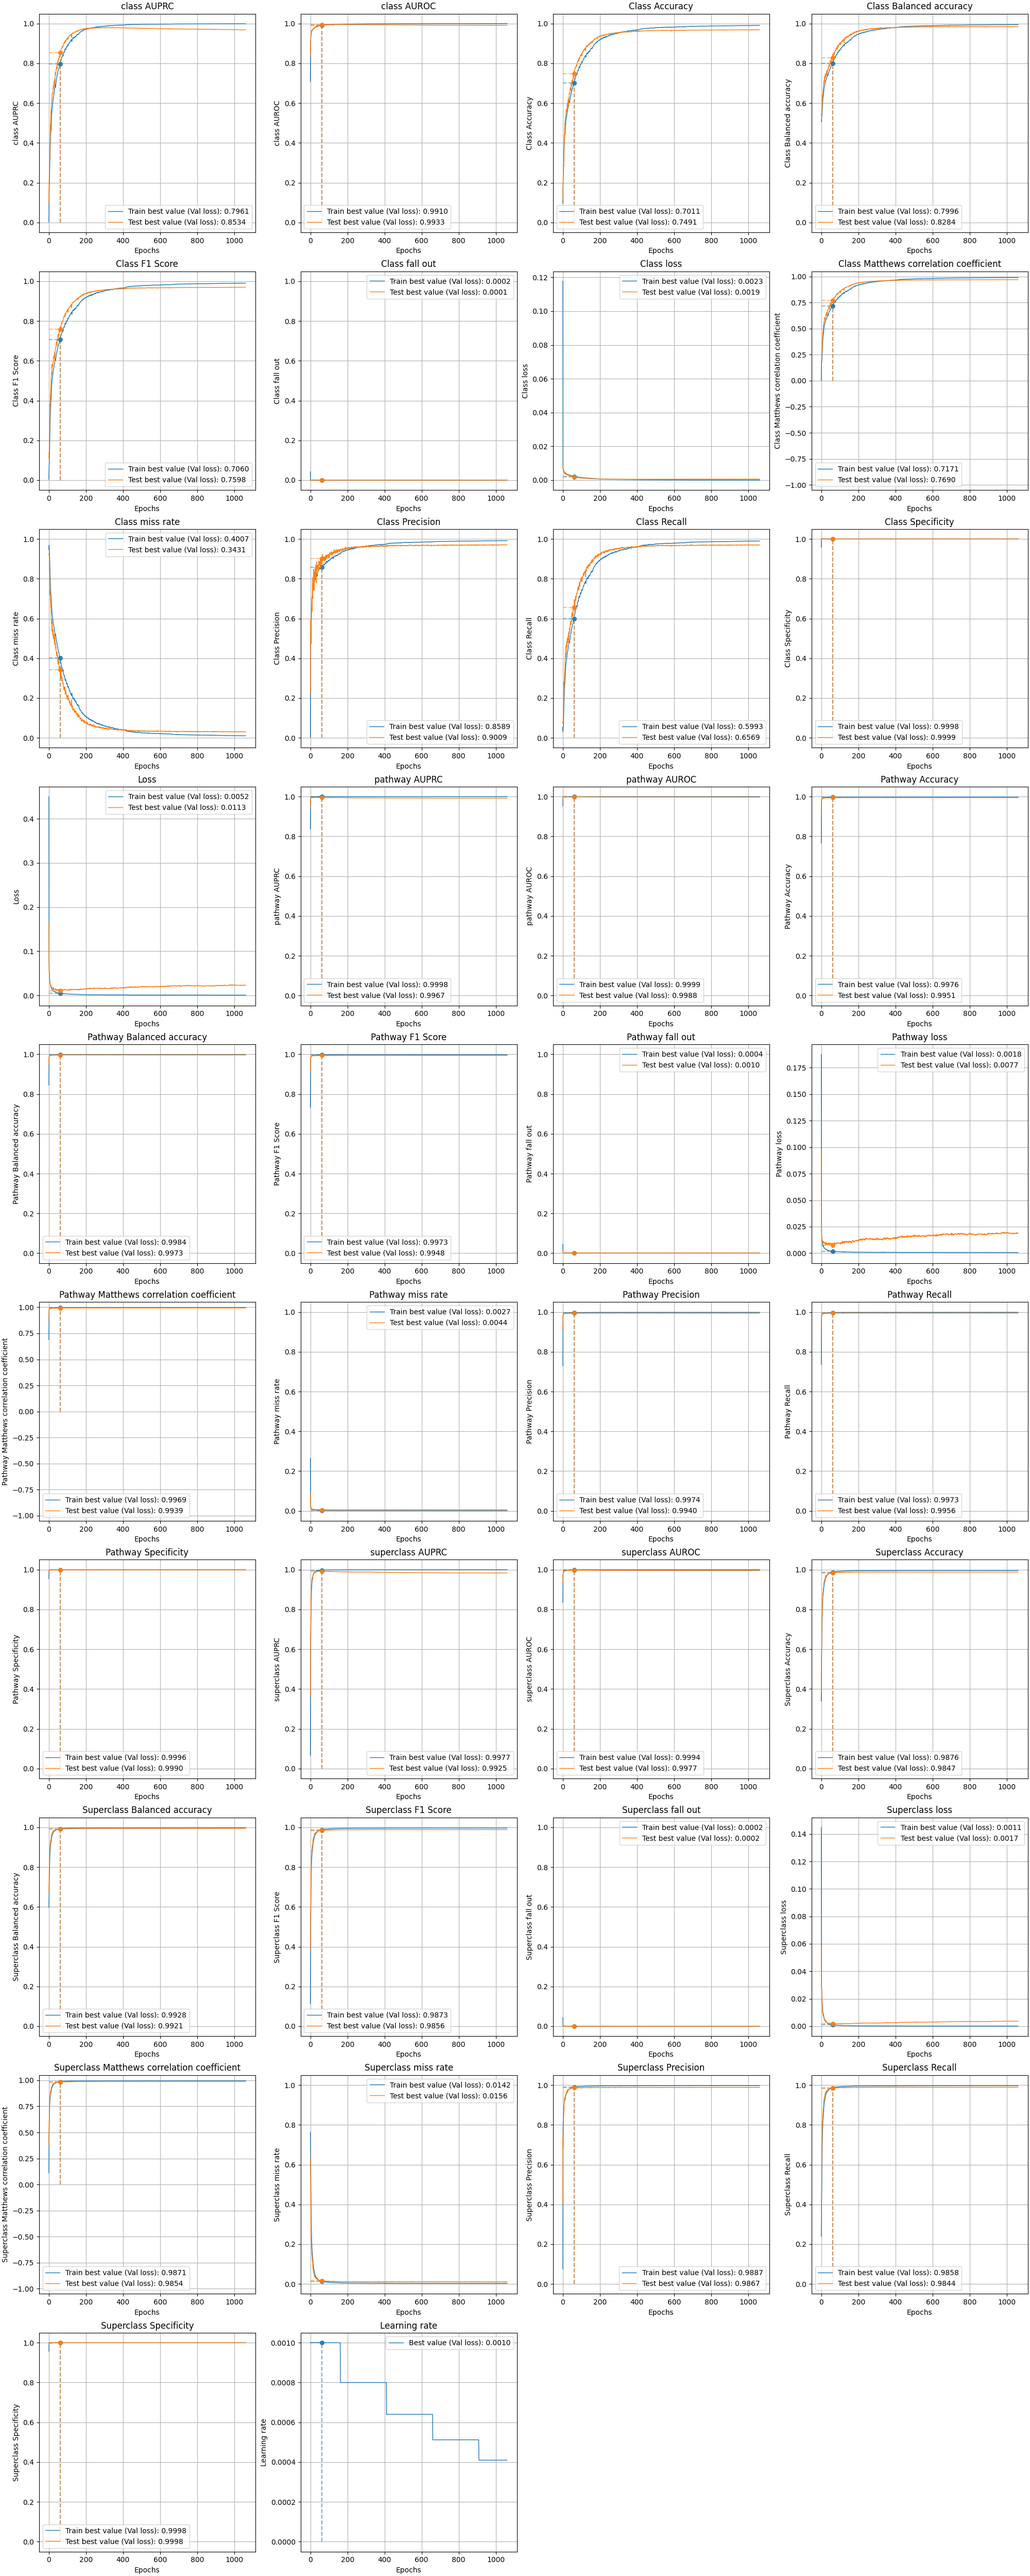
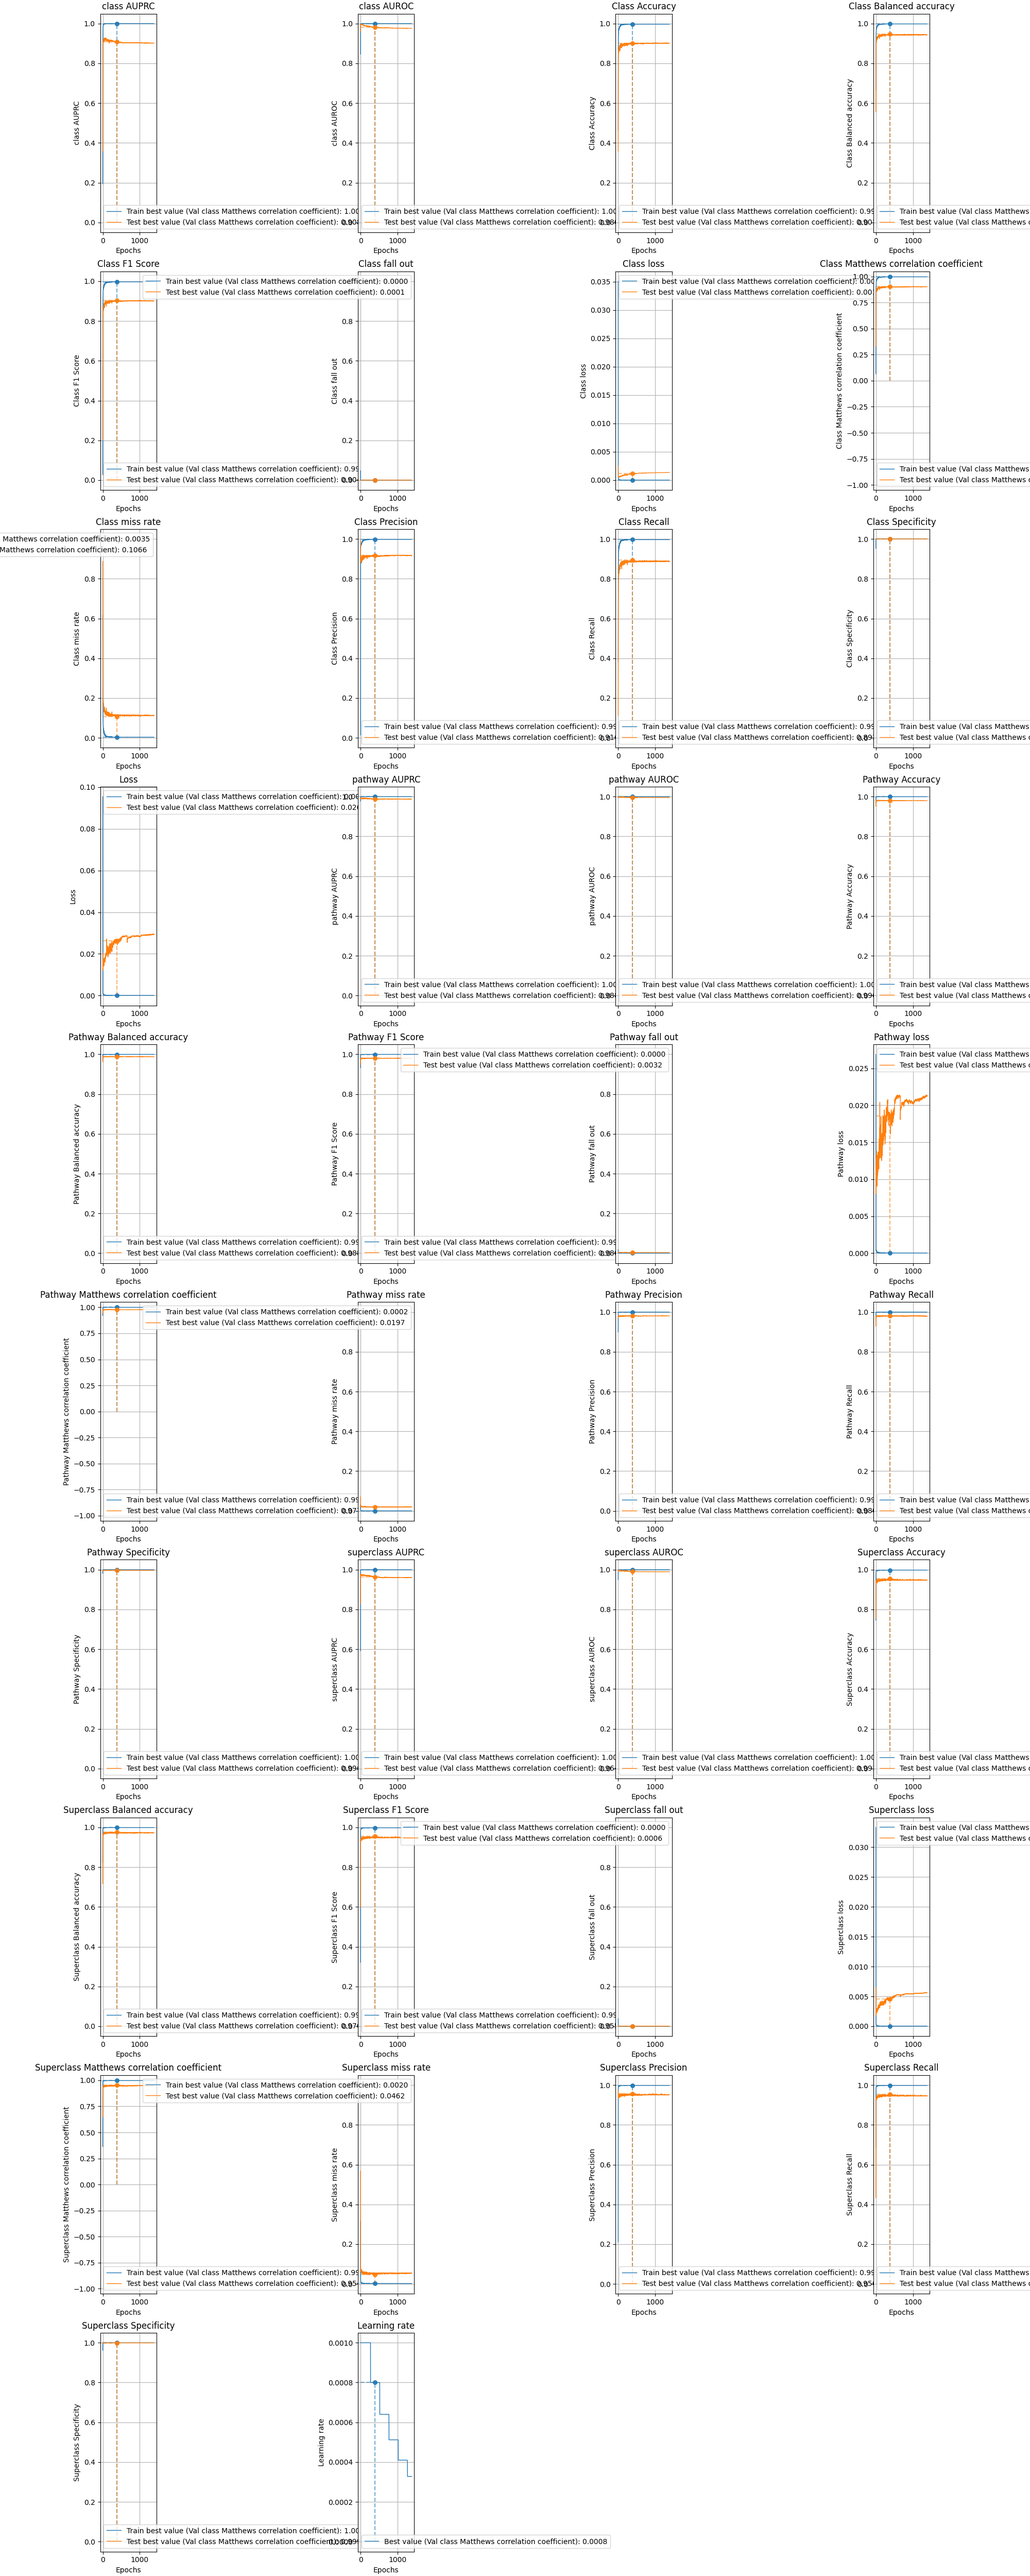
completed first holdout of new model setup

diff --git a/np_classifier/training/model.py b/np_classifier/training/model.py
@@ -107,16 +107,12 @@ class Classifier:
             hidden = BatchNormalization(
                 name=f"batch_normalization_{input_layer.name}_{i}"
             )(hidden)
-            hidden = Dropout(
-                0.4,
-                name=f"dropout_{input_layer.name}_{i}",
-            )(hidden)
         return hidden
 
     def _build_hidden_layers(self, inputs: List[Layer]) -> Layer:
         """Build the hidden layers sub-module."""
         hidden = Concatenate(axis=-1)(inputs)
-        for i in range(10):
+        for i in range(5):
             hidden = Dense(
                 2048,
                 activation="relu",
@@ -125,10 +121,6 @@ class Classifier:
             )(hidden)
             hidden = BatchNormalization(
                 name=f"batch_normalization_hidden_{i}",
-            )(hidden)
-            hidden = Dropout(
-                0.6,
-                name=f"dropout_hidden_{i}",
             )(hidden)
         return hidden
 
@@ -213,7 +205,7 @@ class Classifier:
             show_dtype=True,
             show_layer_names=True,
             expand_nested=True,
-            dpi=200,
+            dpi=100,
             show_layer_activations=True,
             show_trainable=True,
         )
